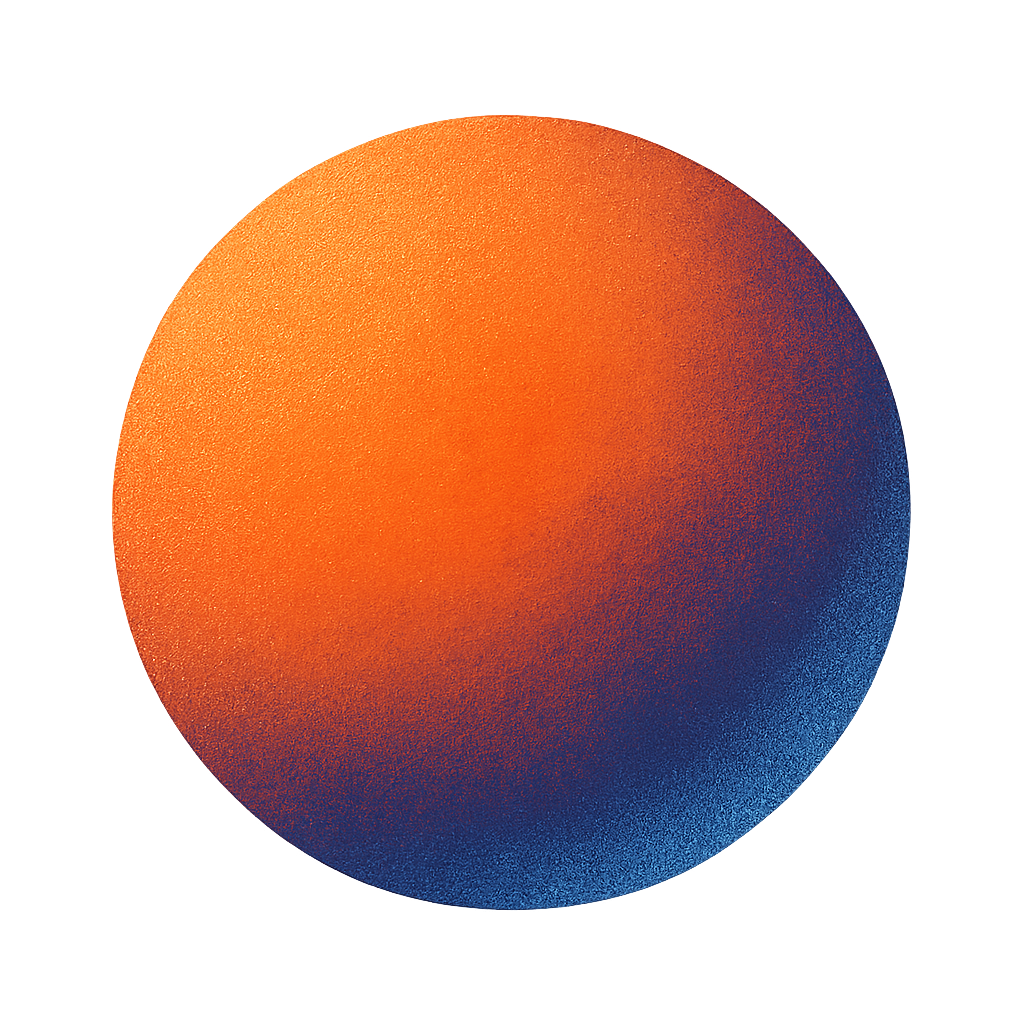
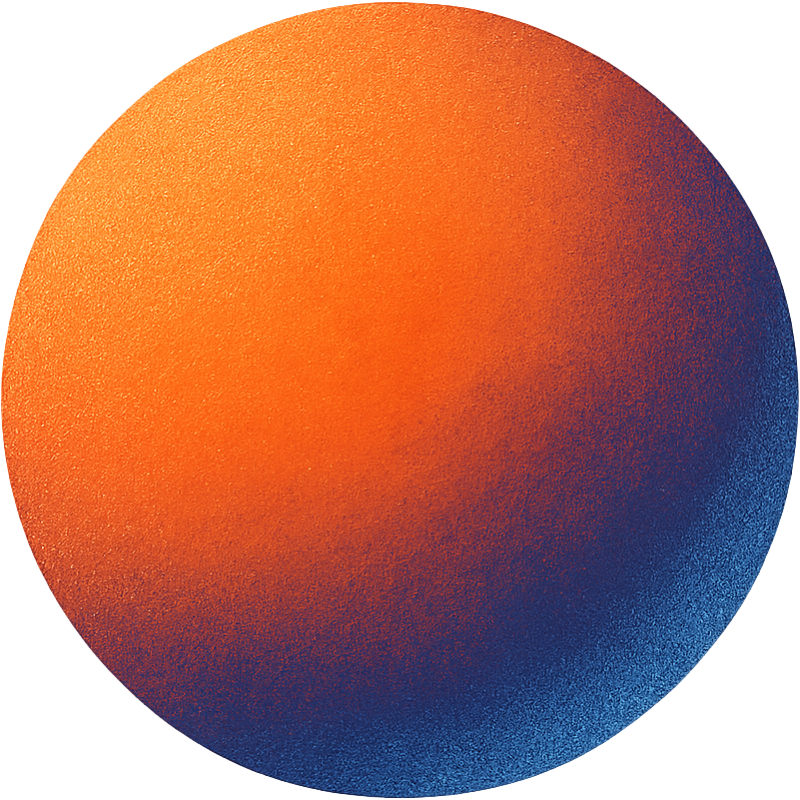
dampenening kind of working but not really

diff --git a/src/utils.js b/src/utils.js
@@ -63,6 +63,23 @@ function setupUI() {
         // { id: 'stop-sound-btn', text: 'Stop Chimes', handler: stopChimes }
     ];
 
+    const dampeningSlider = document.createElement('input');
+    dampeningSlider.type = 'range';
+    dampeningSlider.id = 'dampening-slider';
+    dampeningSlider.min = '0.5';
+    dampeningSlider.max = '5';
+    dampeningSlider.value = '1';
+    dampeningSlider.step = '0.1';
+
+    dampeningSlider.addEventListener('input', (event) => {
+        const value = parseFloat(event.target.value); // Get the slider value as a number
+        // chime.dampening = value; // Update the variable
+        // console.log(`Dampening set to: ${value}`); // Optional: Log the value for debugging
+        for (const chime of chimes) {
+            chime.dampening = value;
+        }
+    });
+
     buttons.forEach(({ id, text, handler }) => {
         const btn = document.createElement('button');
         btn.id = id;
@@ -73,6 +90,7 @@ function setupUI() {
 
         btn.addEventListener('click', handler);
         controlsContainer.appendChild(btn);
+        controlsContainer.appendChild(dampeningSlider);
     });
 
     body.appendChild(controlsContainer);

diff --git a/src/sketch.js b/src/sketch.js
@@ -141,7 +141,11 @@ function mousePressed() {
 
         // Place marbles
         if (mode.marbles) {
-            marbles.push(new Marble(mouseX, mouseY, 30));
+            if (marbles.length >= 10) {
+                return;
+            } else {
+                marbles.push(new Marble(mouseX, mouseY, 30));
+            }
         }
     }
 }

diff --git a/src/bassMarble.js b/src/bassMarble.js
@@ -3,7 +3,7 @@ class BassMarble extends Marble {
         super(x, y, r); // Call the parent class constructor
 
         this.body.label = 'bass-marble';
-        this.img = loadImage('img/marble.png');
+        this.img = loadImage('img/bassMarble.png');
 
         this.color = 'black';
 
